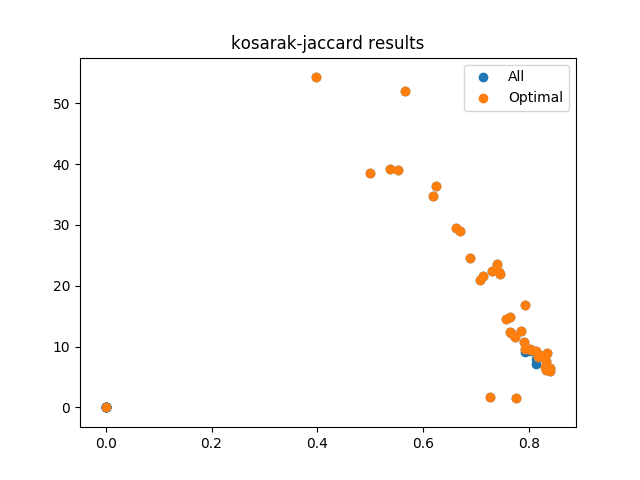
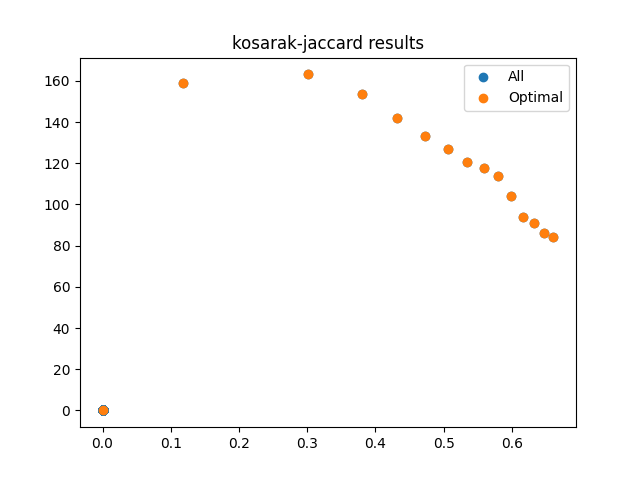
parameter search working

diff --git a/examples/ann-benchmarks/jaccard.py b/examples/ann-benchmarks/jaccard.py
@@ -27,18 +27,18 @@ def evaluate(dataset: Dataset, eknn: ElastiknnModel):
 
 
 def exact(dataset: Dataset):
-    eknn = ElastiknnModel(algorithm='exact', metric='jaccard', n_jobs=1, index=INDEX)
+    eknn = ElastiknnModel(algorithm='exact', metric='jaccard', n_jobs=1, index=f"{INDEX}-{int(time())}")
     return evaluate(dataset, eknn)
 
 
 def indexed(dataset: Dataset):
-    eknn = ElastiknnModel(algorithm='sparse_indexed', metric='jaccard', n_jobs=1, index=INDEX)
+    eknn = ElastiknnModel(algorithm='sparse_indexed', metric='jaccard', n_jobs=1, index=f"{INDEX}-{int(time())}")
     return evaluate(dataset, eknn)
 
 
 def lsh(dataset: Dataset, bands: int = 165, rows: int = 1, candidates: float = 1.5):
     n_neighbors = len(dataset.queries[0].indices)
-    eknn = ElastiknnModel(algorithm='lsh', metric='jaccard', n_jobs=1, index=INDEX,
+    eknn = ElastiknnModel(algorithm='lsh', metric='jaccard', n_jobs=1, index=f"{INDEX}-{int(time())}",
                           mapping_params={"bands": bands, "rows": rows},
                           query_params={"candidates": int(candidates * n_neighbors)})
     return evaluate(dataset, eknn)
@@ -52,28 +52,29 @@ def main():
     dataset = open_dataset(os.path.join(ANNB_ROOT, f"{dsname}.hdf5"))
     print(f"Loaded {len(dataset.corpus)} vectors and {len(dataset.queries)} queries")
 
-    for _ in range(3):
-        loss = exact(dataset)
-        print(f"exact: {loss}")
+    # for _ in range(3):
+    #     loss = exact(dataset)
+    #     print(f"exact: {loss}")
+    #
+    # for _ in range(3):
+    #     loss = indexed(dataset)
+    #     print(f"jaccard indexed: {loss}")
+    #
+    # for _ in range(3):
+    #     loss = lsh(dataset, 165, 1, 1.5)
+    #     print(f"lsh: {loss}")
 
-    for _ in range(3):
-        loss = indexed(dataset)
-        print(f"jaccard indexed: {loss}")
+    bands = [('bands', b) for b in range(10, 601, 10)]
+    rows = [('rows', r) for r in range(1, 2)]
+    candidates = [('candidates', c) for c in np.linspace(0, 10, 21)]
 
-    for _ in range(3):
-        loss = lsh(dataset, 165, 1, 1.5)
-        print(f"lsh: {loss}")
-
-    bands = [('num_bands', b) for b in range(10, 601, 10)]
-    rows = [('num_rows', r) for r in range(1, 2)]
-
-    combinations = list(map(dict, itertools.product(bands, rows)))
+    combinations = list(map(dict, itertools.product(bands, rows, candidates)))
     metrics = np.zeros((len(combinations), 2))
 
     for i, params in enumerate(combinations):
         print(f"Running {i + 1} of {len(combinations)}: {params}...")
         try:
-            (x, y) = evaluate(dataset, **params)
+            (x, y) = lsh(dataset, **params)
             print(f"Loss = {(x, y)}")
             metrics[i] = [x, y]
             pmax = pareto_max(metrics)
